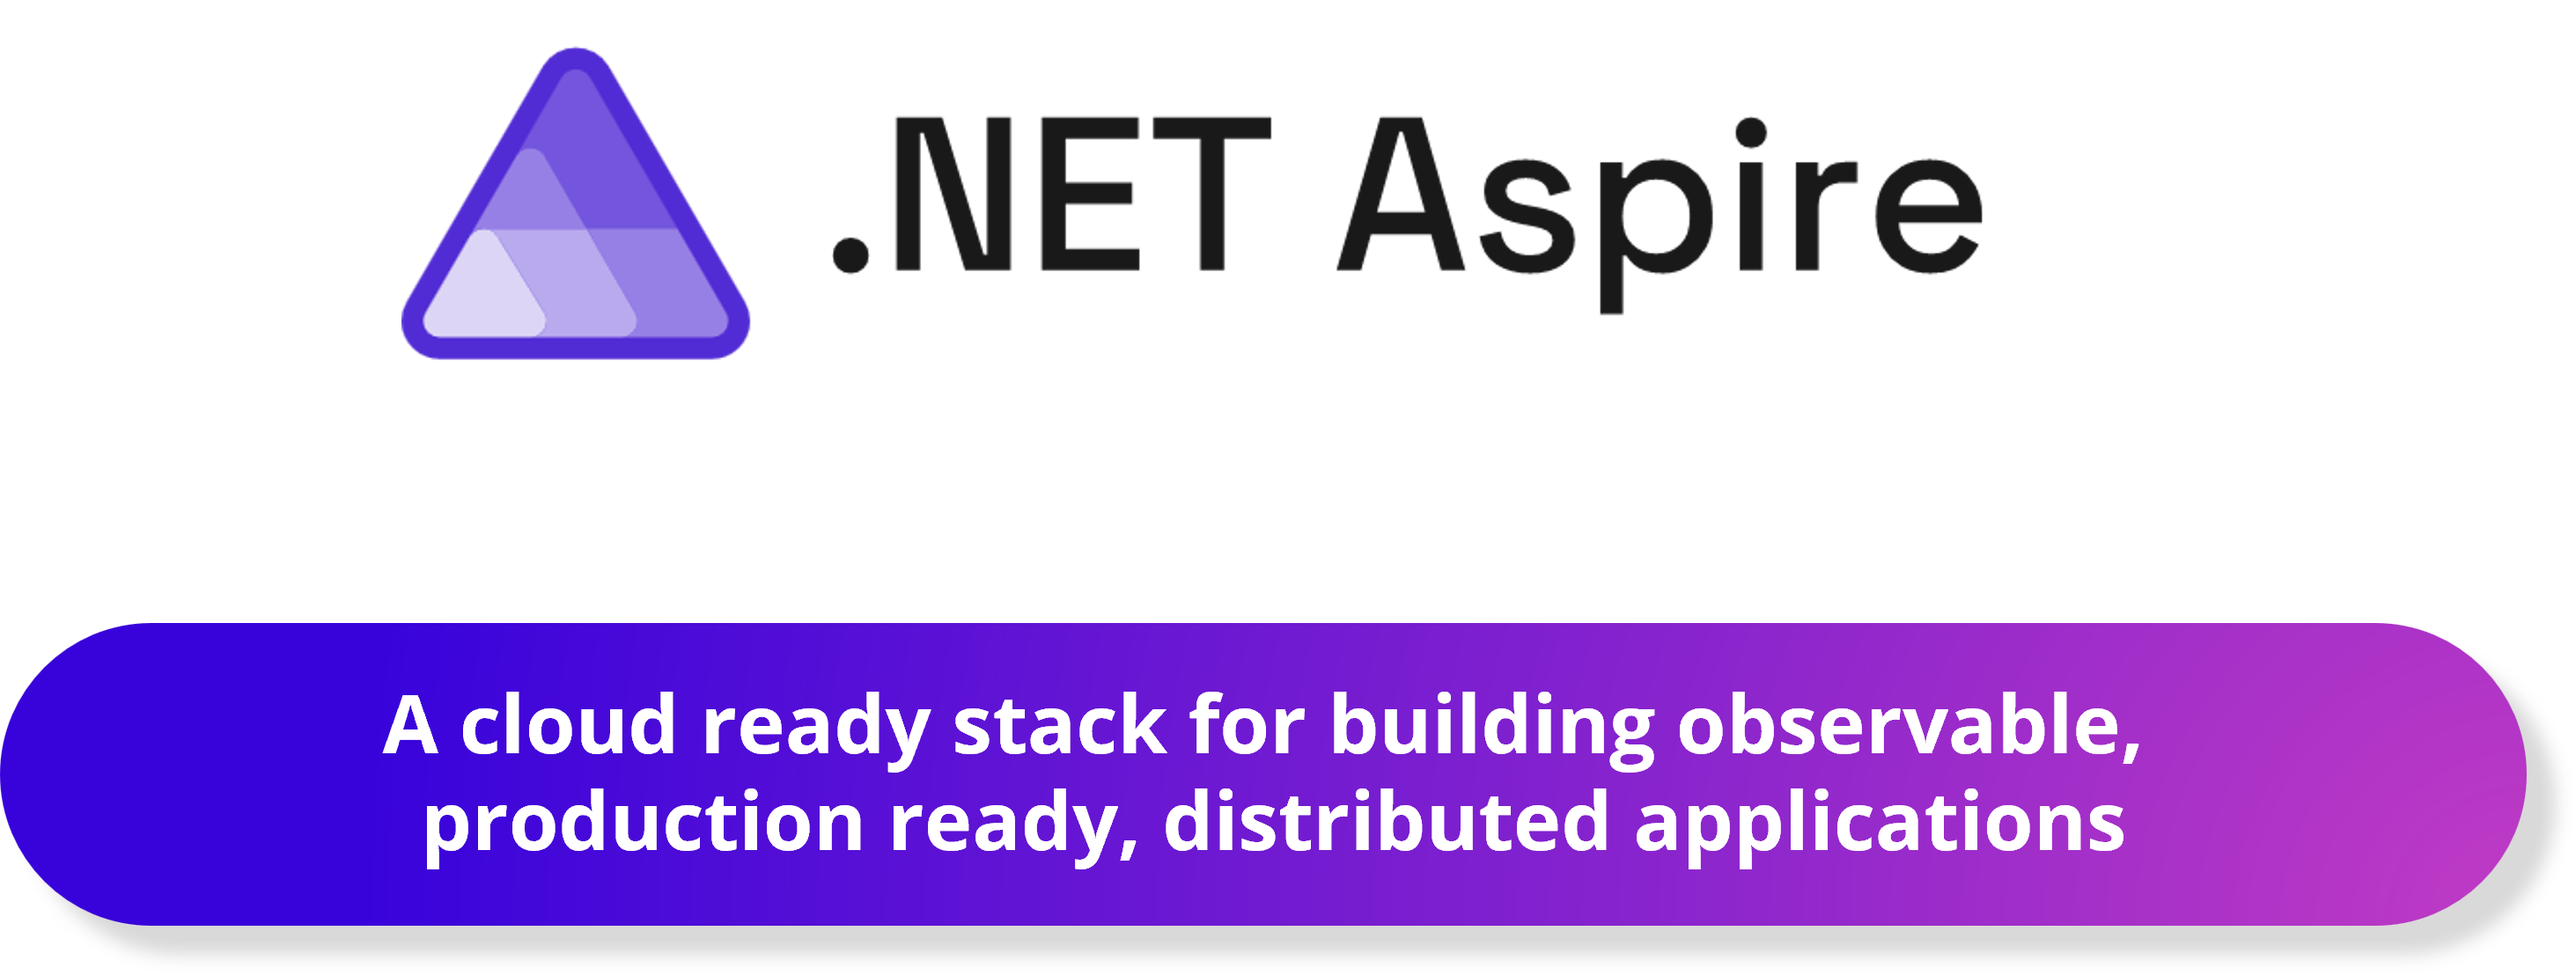
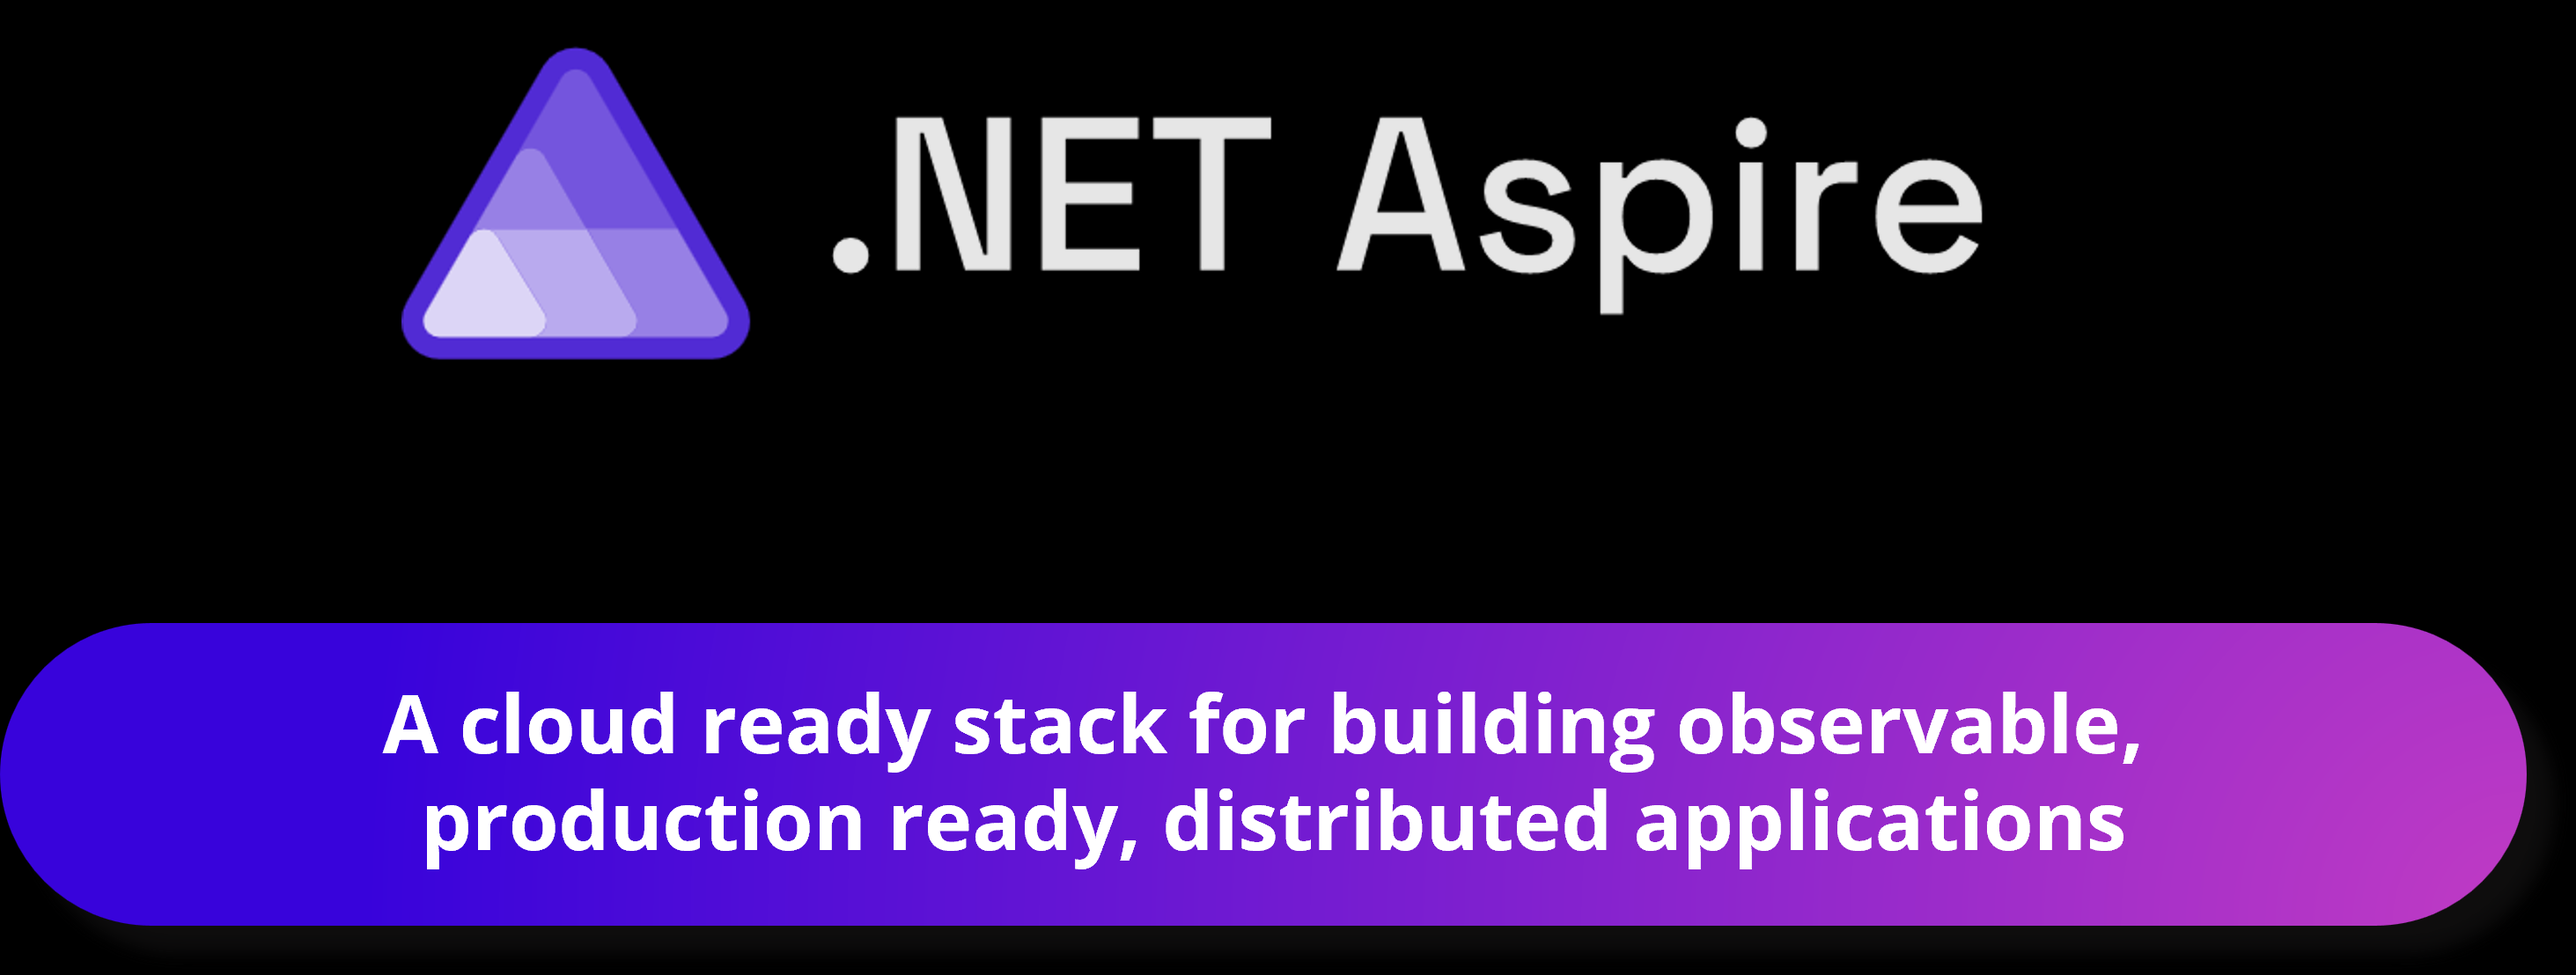
Fix the dark theme image and add more badges

diff --git a/README.md b/README.md
@@ -6,7 +6,6 @@
 [![GitHub issues-closed](https://img.shields.io/github/issues-closed/dotnet/docs-aspire.svg)](https://GitHub.com/dotnet/docs-aspire/issues?q=is%3Aissue+is%3Aclosed)
 [![GitHub pulls-opened](https://img.shields.io/github/issues-pr/dotnet/docs-aspire.svg)](https://GitHub.com/dotnet/docs-aspire/pulls?q=is%3Aissue+is%3Aopened)
 [![GitHub pulls-merged](https://img.shields.io/github/issues-search/dotnet/docs-aspire?label=merged%20pull%20requests&query=is%3Apr%20is%3Aclosed%20is%3Amerged&color=darkviolet)](https://github.com/dotnet/docs-aspire/pulls?q=is%3Apr+is%3Aclosed+is%3Amerged)
-[![GitHub pulls-unmerged](https://img.shields.io/github/issues-search/dotnet/docs-aspire?label=unmerged%20pull%20requests&query=is%3Apr%20is%3Aclosed%20is%3Aunmerged&color=red)](https://github.com/dotnet/docs-aspire/pulls?q=is%3Apr+is%3Aclosed+is%3Aunmerged)
 
 This repository contains the conceptual documentation for .NET Aspire. The [.NET Aspire documentation site](https://learn.microsoft.com/dotnet/aspire).
 
@@ -37,3 +36,5 @@ This project has adopted the [Microsoft Open Source Code of Conduct](https://ope
 - [![Snippets 5000](https://github.com/dotnet/docs-aspire/actions/workflows/snippets5000.yml/badge.svg)](https://github.com/dotnet/docs-aspire/actions/workflows/snippets5000.yml):  Custom .NET build validation, locates code impacted by a PR, and builds.
 - [![Target supported version](https://github.com/dotnet/docs-aspire/actions/workflows/version-sweep.yml/badge.svg)](https://github.com/dotnet/docs-aspire/actions/workflows/version-sweep.yml):  Runs monthly, creating issues on projects that target .NET versions that are out of support.
 - [![Update dependabot.yml](https://github.com/dotnet/docs-aspire/actions/workflows/dependabot-bot.yml/badge.svg)](https://github.com/dotnet/docs-aspire/actions/workflows/dependabot-bot.yml):  Automatically updates the `dependabot` configuration weekly, but only if required.
+- [![quest import](https://github.com/dotnet/docs-aspire/actions/workflows/quest.yml/badge.svg)](https://github.com/dotnet/docs-aspire/actions/workflows/quest.yml): Automatically synchronizes issues with Quest (Azure DevOps).
+- [![bulk quest import](https://github.com/dotnet/docs-aspire/actions/workflows/quest-bulk.yml/badge.svg)](https://github.com/dotnet/docs-aspire/actions/workflows/quest-bulk.yml): Manual bulk import of issues into Quest (Azure DevOps).
